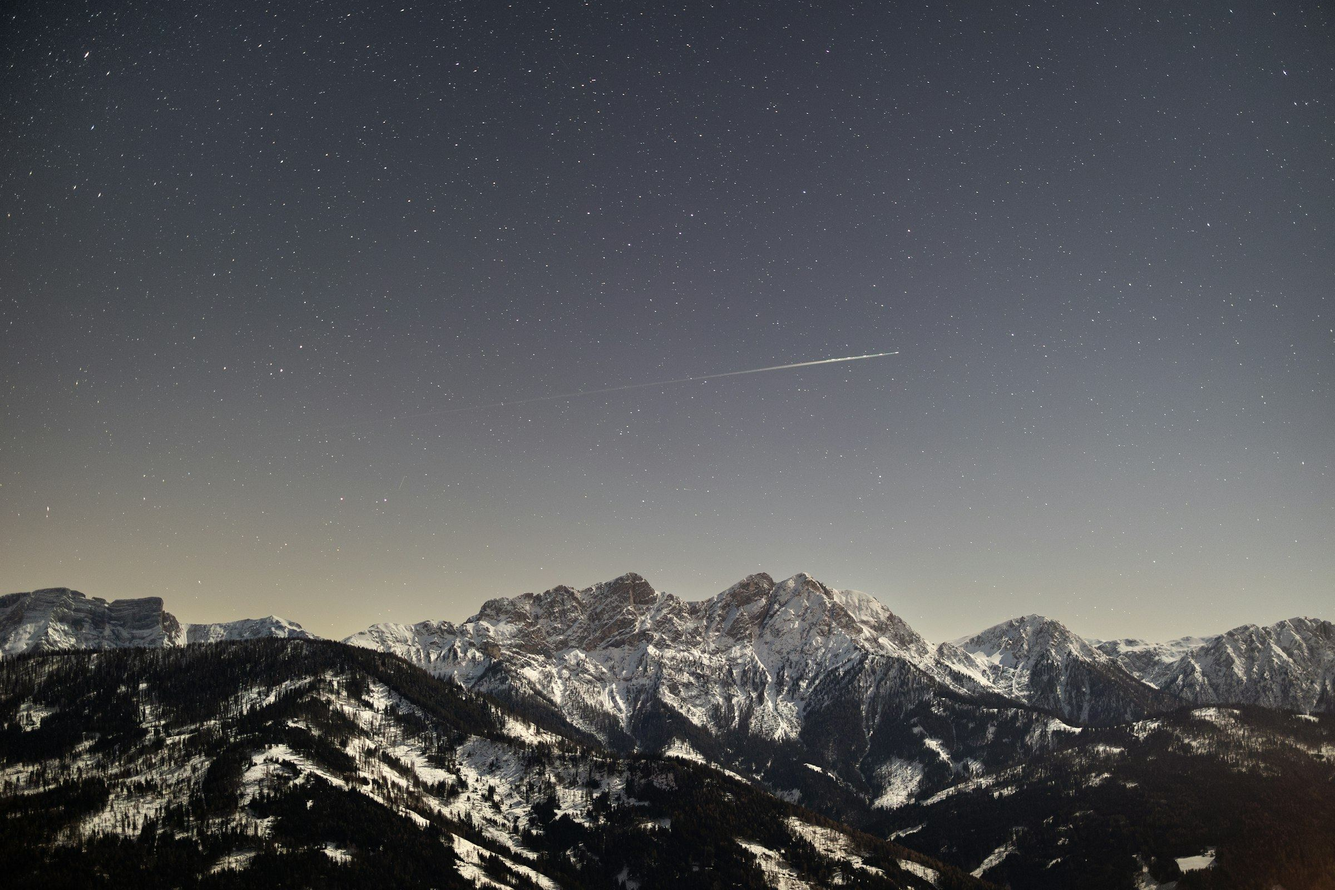
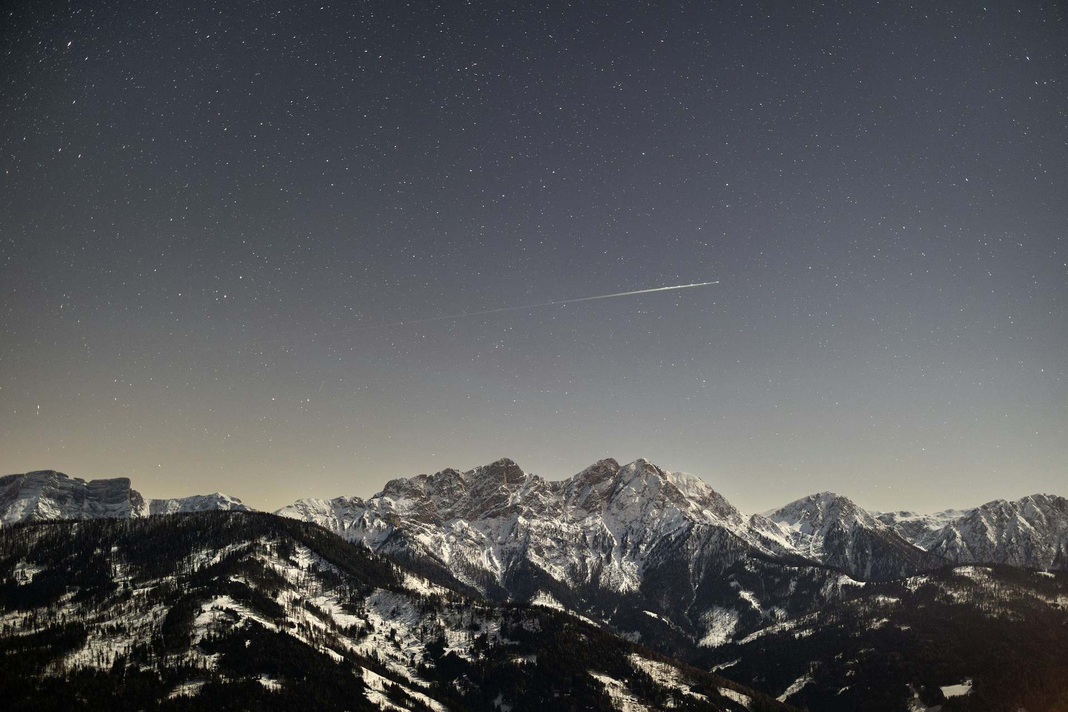
Add files via upload

Changed region(s): [[0.3438, 0.875, 0.375, 0.9062]]

diff --git a/docs/index.html b/docs/index.html
@@ -5,6 +5,7 @@
 <meta name="theme-color" content="#F2F2F7" media="(prefers-color-scheme: light)">
 <meta name="theme-color" content="#000000" media="(prefers-color-scheme: dark)">
 <title>Job Radar</title>
+<meta http-equiv="Content-Security-Policy" content="default-src 'self'; script-src 'self' 'unsafe-inline'; style-src 'self' 'unsafe-inline' https://fonts.googleapis.com; font-src 'self' https://fonts.gstatic.com; img-src 'self' data:; connect-src 'self'; object-src 'none'; base-uri 'none'; form-action 'none'">
 <link rel="preconnect" href="https://fonts.googleapis.com"><link rel="preconnect" href="https://fonts.gstatic.com" crossorigin>
 <link href="https://fonts.googleapis.com/css2?family=Inter:wght@400;500;600;700&display=swap" rel="stylesheet">
 <style>
@@ -322,6 +323,8 @@ let DATA={jobs:[],health:[],funding:[],funding_health:[]},lastVisit=null,mem={};
 const store={get(k,d){try{const v=localStorage.getItem(k);return v==null?d:JSON.parse(v)}catch(e){return k in mem?mem[k]:d}},
   set(k,v){mem[k]=v;try{localStorage.setItem(k,JSON.stringify(v))}catch(e){}}};
 const applied=()=>store.get("radar_applied",{});
+const safeUrl=u=>/^https?:\/\//i.test(u||"")?u:"#";   // blocks javascript:, data: and other link tricks
+const EMAIL_RE=/^[^\s@<>"']+@[^\s@<>"']+\.[A-Za-z]{2,}$/;
 const esc=s=>String(s??"").replace(/[&<>"]/g,c=>({"&":"&amp;","<":"&lt;",">":"&gt;",'"':"&quot;"}[c]));
 const when=j=>j.posted_at||j.first_seen_at;
 const hrs=iso=>iso?(Date.now()-new Date(iso))/36e5:null;
@@ -361,7 +364,7 @@ function fdetailHTML(f,sheet){
       <div class="d-sub">Raised ${f.amount?`<b class="amt">${esc(f.amount)}</b>`:"funding"}${f.round?" in a "+esc(f.round)+" round":""}. Reported <span class="${fhot(f)?"hot":""}">${long(fwhen(f)).toLowerCase()}</span>.</div>
       ${(f.founders||[]).length?`<p class="fnames"><span>Founders</span>${f.founders.map(esc).join(", ")}</p>`:""}
       <p class="headline">${esc(f.headline)}</p>
-      <div class="actions"><a class="btn primary" href="${esc(f.url)}" target="_blank" rel="noopener">Read News</a>
+      <div class="actions"><a class="btn primary" href="${esc(safeUrl(f.url))}" target="_blank" rel="noopener">Read News</a>
 </div>
     </div>
     <div class="facts">
@@ -448,7 +451,7 @@ function detailHTML(j,sheet){
       <div class="d-co">${esc(j.company)} on ${esc(BOARD[j.source]||j.source)}</div>
       <h2 class="d-title">${esc(j.title)}</h2>
       <div class="d-sub">${esc(j.location||"Location not listed")}. Posted <span class="${hot(j)?"hot":""}">${long(when(j)).toLowerCase()}</span>.</div>
-      <div class="actions"><a class="btn primary" href="${esc(j.url)}" target="_blank" rel="noopener">Open Job</a>
+      <div class="actions"><a class="btn primary" href="${esc(safeUrl(j.url))}" target="_blank" rel="noopener">Open Job</a>
         <button class="btn glass ${done?"done":""}" data-apply="${j.id}">${done?"✓ Applied":"Mark as Applied"}</button>
         <button class="btn glass" data-tailor="${j.id}">Tailor CV</button>
 </div>
@@ -467,14 +470,14 @@ function jobExtras(j){const d=j.d;
   if(!d)return`<p class="note">People and the job description appear after the next scan.</p>`;
   if(d.error&&!d.people?.length)return`<p class="note">Couldn't read this job page (${esc(d.error)}). Use Open Job instead.</p>`;
   const people=(d.people||[]).map((p,i)=>{
-    const link=p.linkedin?`<a class="pill-btn" href="${esc(p.linkedin)}" target="_blank" rel="noopener" aria-label="LinkedIn">${LI}<span>Profile</span></a>`
-      :p.search?`<a class="pill-btn" href="${esc(p.search)}" target="_blank" rel="noopener">${LI}<span>Find</span></a>`:"";
-    const mail=p.email?`<a class="pill-btn blue" href="mailto:${esc(p.email)}">Email</a>`:"";
+    const link=p.linkedin?`<a class="pill-btn" href="${esc(safeUrl(p.linkedin))}" target="_blank" rel="noopener" aria-label="LinkedIn">${LI}<span>Profile</span></a>`
+      :p.search?`<a class="pill-btn" href="${esc(safeUrl(p.search))}" target="_blank" rel="noopener">${LI}<span>Find</span></a>`:"";
+    const mail=EMAIL_RE.test(p.email||"")?`<a class="pill-btn blue" href="mailto:${esc(p.email)}">Email</a>`:"";
     return`<div class="prow"><span class="av ${p.role==="Founder"?"av-f":p.role==="HR"?"av-h":p.role==="Hiring manager"?"av-m":"av-e"}">${p.email&&!p.linkedin&&p.role==="From the post"?"@":esc(initials(p.name))}</span>
       <div class="pinfo"><div class="pname">${esc(p.name)} <span class="role">${esc(p.role)}</span></div><div class="ptitle">${esc(p.title||"")}</div>
         <div class="meters">${meter("Worth emailing",p.need)}${meter("Email findable",p.exists)}</div></div>
       <div class="pact">${mail}${link}</div></div>`}).join("");
-  const c=d.company||{},facts=[c.website?`<a href="${esc(c.website)}" target="_blank" rel="noopener">${esc(c.website.replace(/^https?:\/\//,"").replace(/\/$/,""))}</a>`:"",
+  const c=d.company||{},facts=[c.website?`<a href="${esc(safeUrl(c.website))}" target="_blank" rel="noopener">${esc(c.website.replace(/^https?:\/\//,"").replace(/\/$/,""))}</a>`:"",
     c.team_size?`${c.team_size} people`:"",c.batch?`YC ${esc(c.batch)}`:""].filter(Boolean);
   return`<section class="sec"><h3>Outreach</h3><div class="glist pad">
       <div class="need"><div class="need-v">${d.need??"—"}<small>%</small></div><div><div class="need-t">Worth emailing someone directly</div>
@@ -578,13 +581,13 @@ document.addEventListener("keydown",e=>{
   if(isF()){const ids=frows().map(f=>f.id),i=ids.indexOf(S.fsel),f=(DATA.funding||[]).find(x=>x.id===S.fsel);
     if(e.key==="ArrowDown"||e.key==="ArrowUp"){e.preventDefault();S.fsel=ids[Math.min(ids.length-1,Math.max(0,i+(e.key==="ArrowDown"?1:-1)))];
       renderList();renderDetail();document.querySelector(".row[aria-selected=true]")?.scrollIntoView({block:"nearest"})}
-    else if(e.key==="Enter"&&f)window.open(f.url,"_blank","noopener");
+    else if(e.key==="Enter"&&f)window.open(safeUrl(f.url),"_blank","noopener");
     else if(e.key==="/"){e.preventDefault();$("q").focus()}
     return}
   const ids=filtered().map(j=>j.id),i=ids.indexOf(S.sel);
   if(e.key==="ArrowDown"||e.key==="ArrowUp"){e.preventDefault();S.sel=ids[Math.min(ids.length-1,Math.max(0,i+(e.key==="ArrowDown"?1:-1)))];
     renderList();renderDetail();document.querySelector(".row[aria-selected=true]")?.scrollIntoView({block:"nearest"})}
-  else if(e.key==="Enter"&&S.sel!=null){const j=DATA.jobs.find(x=>x.id===S.sel);if(j)window.open(j.url,"_blank","noopener")}
+  else if(e.key==="Enter"&&S.sel!=null){const j=DATA.jobs.find(x=>x.id===S.sel);if(j)window.open(safeUrl(j.url),"_blank","noopener")}
   else if((e.key==="a"||e.key==="A")&&S.sel!=null&&!e.metaKey&&!e.ctrlKey)toggleApplied(S.sel);
   else if((e.key==="e"||e.key==="E")&&S.sel!=null&&!e.metaKey&&!e.ctrlKey){const j=DATA.jobs.find(x=>x.id===S.sel);if(j?.d)copyText(emailRequest(j)).then(ok=>toast(ok?"Copied. Paste it in your Claude chat.":"Couldn't copy."))}
   else if(e.key==="/"){e.preventDefault();$("q").focus()}
@@ -885,7 +888,7 @@ function cvEdited(el){const j=job(),m=getCV(j.id);setPath(m,el.dataset.p,el.inne
   if(x){const r=xyz(m.sections[si].lines[li].text);x.innerHTML=`<i class="${r.x?"on":""}"></i><i class="${r.y?"on":""}"></i><i class="${r.z?"on":""}"></i>`;
     const a0=analyse(j,m),t=m.sections[si].lines[li].text;$(`h-${si}-${li}`).innerHTML=tagHTML(t,a0,si,li);$(`v-${si}-${li}`).className="p-line v-"+(T.marks?verdict(t,a0)[0]:"off")}
   clearTimeout(saveT);saveT=setTimeout(()=>{const a=analyse(j,getCV(j.id));$("st-stats").innerHTML=cvStats(a);$("st-left").innerHTML=cvLeft(j,a);$("st-right").innerHTML=cvRight(j,getCV(j.id),a)},350)}
-function cvAskClaude(j){const jd=jdOf(j).slice(0,6000);return`Tailor the CV on this page for ${j.title} at ${j.company}.
+function cvAskClaude(j){const jd=jdOf(j).slice(0,6000);return`Tailor my CV (below) for ${j.title} at ${j.company}.
 ${jd?`\nJOB DESCRIPTION:\n${jd}\n`:`\nJob link: ${j.url}\n`}
 RULES:
 - Use only facts already in my CV. Never invent numbers, tools or results. Put [X] where I need to add a real number.
@@ -898,7 +901,10 @@ REPLY SHORT, in this format only:
 CHANGE (max 8): old line → new line
 ADD NUMBER: lines where I must fill [X]
 MOVE DOWN OR CUT: lines that don't fit this job
-GAPS: what they want that my CV honestly doesn't show (one line each)`}
+GAPS: what they want that my CV honestly doesn't show (one line each)
+
+MY CV:
+${cvToText(getCV(j.id))}`}
 function exportPDF(j){const m=getCV(j.id);const w=window.open("","_blank");if(!w){toast("Allow pop-ups to export the PDF.");return}
   const head=t=>{const parts=t.split(/\s+\|\s+/);const last=parts.length>1&&/(\d{4}|present|current)/i.test(parts[parts.length-1])?parts.pop():"";
     return`<div class="h"><span><b>${esc(parts[0]||"")}</b>${parts.length>1?", "+esc(parts.slice(1).join(", ")):""}</span><span>${esc(last)}</span></div>`};
@@ -933,7 +939,10 @@ document.addEventListener("click",e=>{
   if(a==="askline"){const m=getCV(j.id),line=m.sections[b.dataset.si].lines[b.dataset.li].text,v=verdict(line,analyse(j,m));
     return askClaude(`Rewrite this CV line for the ${j.title} job at ${j.company}: "${line}"
 Problem: ${v[2]}
-2 options, under 25 words each. Use only facts from my CV on this page, put [X] where I need a real number. No long dashes. Short answer.`)}
+2 options, under 25 words each. Use only facts from my CV below, put [X] where I need a real number. No long dashes. Short answer.
+
+MY CV:
+${cvToText(m)}`)}
   if(a==="addb"){const m=getCV(j.id),s=m.sections[b.dataset.si];s.lines.push({t:"b",text:""});putCV(j.id,m);drawStudio();
     const els=document.querySelectorAll(`[data-p^="${b.dataset.si}."]`);els[els.length-1]?.focus();return}
 
